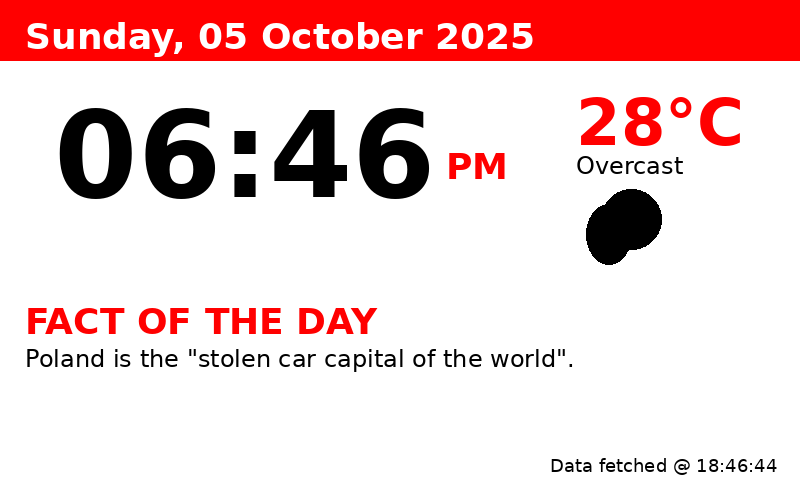
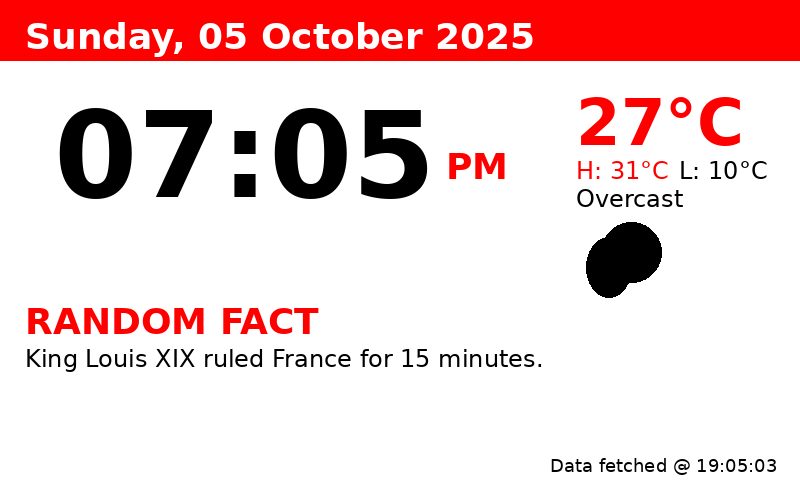
Better working.

diff --git a/test2.py b/test2.py
@@ -1,7 +1,7 @@
 #!/usr/bin/env python3
 """
 E-Paper Dashboard: Unified 4-Color UI (Black, White, Red, Yellow)
-Displays: Large Clock, Weather, Random Facts, and System Status.
+Displays: Large Clock, Weather (including High/Low), Random Facts, and System Status.
 Designed for 800x480 pixel 4-color displays (e.g., Waveshare epd2in15g).
 
 NOTE: This script assumes the epd2in15g.py driver file is present in the 'lib' directory
@@ -27,6 +27,7 @@ if os.path.exists(libdir):
 
 DISPLAY_WIDTH = 800
 DISPLAY_HEIGHT = 480
+MAX_FACT_LINES = 4 # Hard limit for the random fact footer content
 
 # Define RGB Colors for Drawing (must match colors supported by the driver's palette)
 RGB_WHITE = (255, 255, 255)
@@ -49,19 +50,29 @@ WEATHER_CODES: Dict[int, Tuple[str, str]] = {
 # --- Utility Functions: Data Fetching ---
 
 def get_weather() -> Dict[str, Any]:
-    """Fetch current weather from Open-Meteo."""
-    default_weather = {'temp': '--', 'condition': 'Cloud', 'description': 'Weather unavailable'}
+    """Fetch current weather and daily high/low from Open-Meteo."""
+    # Added defaults for max/min temperature
+    default_weather = {'temp': '--', 'condition': 'Cloud', 'description': 'Weather unavailable', 'temp_max': '--', 'temp_min': '--'} 
     try:
         url = "https://api.open-meteo.com/v1/forecast"
         params = {
             'latitude': LATITUDE, 'longitude': LONGITUDE, 
-            'current_weather': 'true', 'temperature_unit': 'celsius', 
+            'current_weather': 'true', 
+            'daily': ['temperature_2m_max', 'temperature_2m_min'], # Request daily forecast data
+            'temperature_unit': 'celsius', 
             'timezone': 'auto'
         }
         response = requests.get(url, params=params, timeout=8)
         response.raise_for_status()
         data = response.json()
         current = data.get('current_weather', {})
+        daily = data.get('daily', {}) # Get daily data
+
+        # Safely extract today's min/max (first element of the arrays)
+        # Round the temperature values
+        temp_max = round(daily.get('temperature_2m_max', [0])[0]) if daily.get('temperature_2m_max') else '--'
+        temp_min = round(daily.get('temperature_2m_min', [0])[0]) if daily.get('temperature_2m_min') else '--'
+        
         weather_code = current.get('weathercode', 2)
         
         icon_condition, description = WEATHER_CODES.get(weather_code, ('Cloud', 'Unknown condition'))
@@ -69,7 +80,9 @@ def get_weather() -> Dict[str, Any]:
         return {
             'temp': round(current.get('temperature', 0)),
             'condition': icon_condition,
-            'description': description
+            'description': description,
+            'temp_max': temp_max, # Include max temp
+            'temp_min': temp_min  # Include min temp
         }
     except requests.exceptions.RequestException as e:
         logging.error(f"Weather API error: {e}")
@@ -215,13 +228,35 @@ def create_dashboard() -> Image.Image:
     # Start y_pos higher since "Current Weather" title is removed
     y_pos_weather = TOP_BAR_HEIGHT + PADDING 
     
-    # Temperature (Yellow)
+    # Current Temperature (RED)
     temp_text = f"{weather['temp']}°C"
     draw.text((x_pos, y_pos_weather), temp_text, font=fonts['xl'], fill=RGB_RED)
     
-    # Weather Description (Black)
+    # High/Low Temperature (Red/Black)
     temp_text_height = fonts['xl'].getbbox(temp_text)[3]
-    y_pos_weather += temp_text_height + 5 # Move Y past the temperature
+    # ADJUSTMENT: Use the full height of the XL font + an additional 10px buffer to push High/Low lower.
+    y_pos_weather += temp_text_height + 10
+    
+    # Separate High (Red) and Low (Black) for 4-color aesthetic
+    h_text = f"H: {weather['temp_max']}°C"
+    l_text = f"L: {weather['temp_min']}°C"
+    
+    # Use medium font (fonts['m'], size 24) for better fit in the sidebar
+    temp_font = fonts['m'] 
+    
+    # Draw High (Red)
+    draw.text((x_pos, y_pos_weather), h_text, font=temp_font, fill=RGB_RED)
+    
+    # Calculate width of H text to position L text next to it
+    h_w = draw.textbbox((0, 0), h_text, font=temp_font)[2] - draw.textbbox((0, 0), h_text, font=temp_font)[0]
+    
+    # Draw Low (Black) with reduced spacing (10)
+    draw.text((x_pos + h_w + 10, y_pos_weather), l_text, font=temp_font, fill=RGB_BLACK)
+
+    # Weather Description (Black)
+    high_low_height = temp_font.getbbox(h_text)[3]
+    y_pos_weather += high_low_height + 5 # Move Y past the high/low
+    
     draw.text((x_pos, y_pos_weather), weather['description'], font=fonts['m'], fill=RGB_BLACK)
     
     # Weather Icon (Red/Yellow/Black)
@@ -237,13 +272,13 @@ def create_dashboard() -> Image.Image:
     y_pos_fact = 300
     
     # Header (Red)
-    draw.text((PADDING, y_pos_fact), "FACT OF THE DAY", font=fonts['l_bold'], fill=RGB_RED)
-    y_pos_fact += fonts['l_bold'].getbbox("FACT OF THE DAY")[3] + 10
+    draw.text((PADDING, y_pos_fact), "RANDOM FACT", font=fonts['l_bold'], fill=RGB_RED)
+    y_pos_fact += fonts['l_bold'].getbbox("RANDOM FACT")[3] + 10
     
-    # Fact Content (Black)
+    # Fact Content (Black) - MAX_FACT_LINES is used here for a strict limit
     fact_lines = wrap_text(fact, fonts['m'], DISPLAY_WIDTH - 2 * PADDING, draw)
     
-    for line in fact_lines[:4]: # Limit to 4 lines
+    for line in fact_lines[:MAX_FACT_LINES]: # Limit to 4 lines to ensure fit
         draw.text((PADDING, y_pos_fact), line, font=fonts['m'], fill=RGB_BLACK)
         y_pos_fact += fonts['m'].getbbox(line)[3] + 5
 
@@ -263,7 +298,7 @@ def update_display(image: Image.Image):
     The driver's getbuffer() handles the 4-color conversion.
     """
     try:
-        # Import the correct module name based on the driver file
+        # NOTE: Using epd7in5h as per the original import, assuming it handles 800x480 4-color.
         from waveshare_epd import epd7in5h as epd_module 
         logging.info("Updating e-paper display...")
         
@@ -281,7 +316,7 @@ def update_display(image: Image.Image):
         logging.info("Display updated and sleeping.")
         
     except ImportError:
-        logging.error("E-paper driver not found (epd2in15g). Ensure it is in the 'lib' directory.")
+        logging.error("E-paper driver not found (epd2in15g/epd7in5h). Ensure it is in the 'lib' directory.")
     except Exception as e:
         # Log the specific error for debugging
         logging.error(f"E-paper display error: {e}")

diff --git a/main.py b/main.py
@@ -237,7 +237,7 @@ def create_dashboard() -> Image.Image:
     y_pos_fact = 300
     
     # Header (Red)
-    draw.text((PADDING, y_pos_fact), "FACT OF THE DAY", font=fonts['l_bold'], fill=RGB_RED)
+    draw.text((PADDING, y_pos_fact), "RANDOM FACT", font=fonts['l_bold'], fill=RGB_RED)
     y_pos_fact += fonts['l_bold'].getbbox("FACT OF THE DAY")[3] + 10
     
     # Fact Content (Black)
